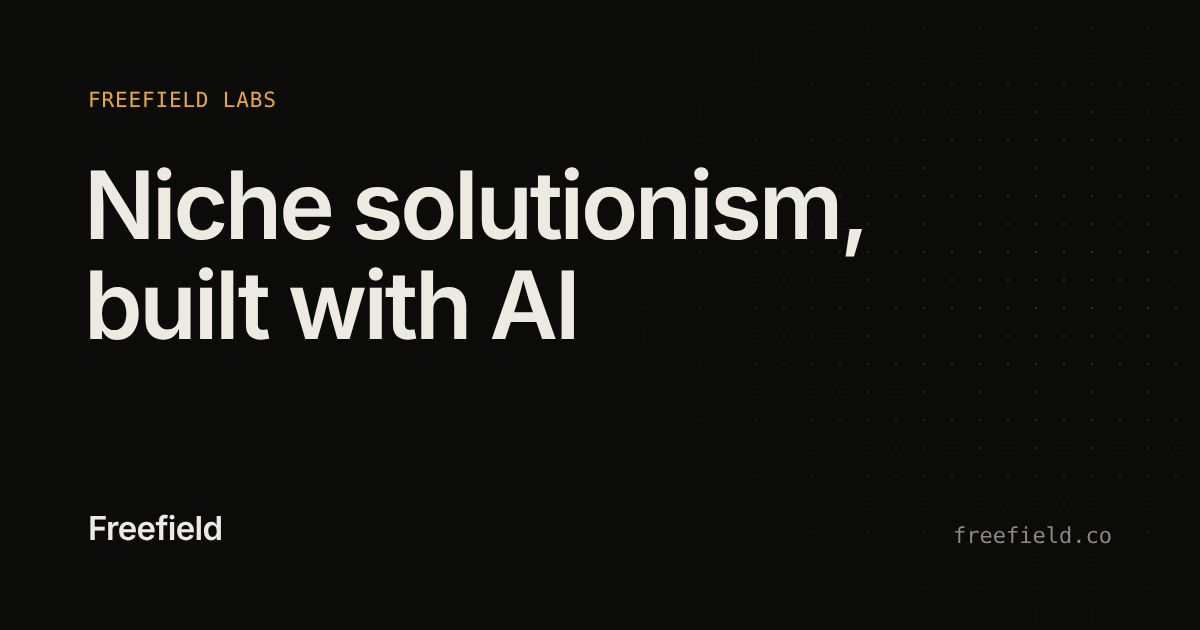
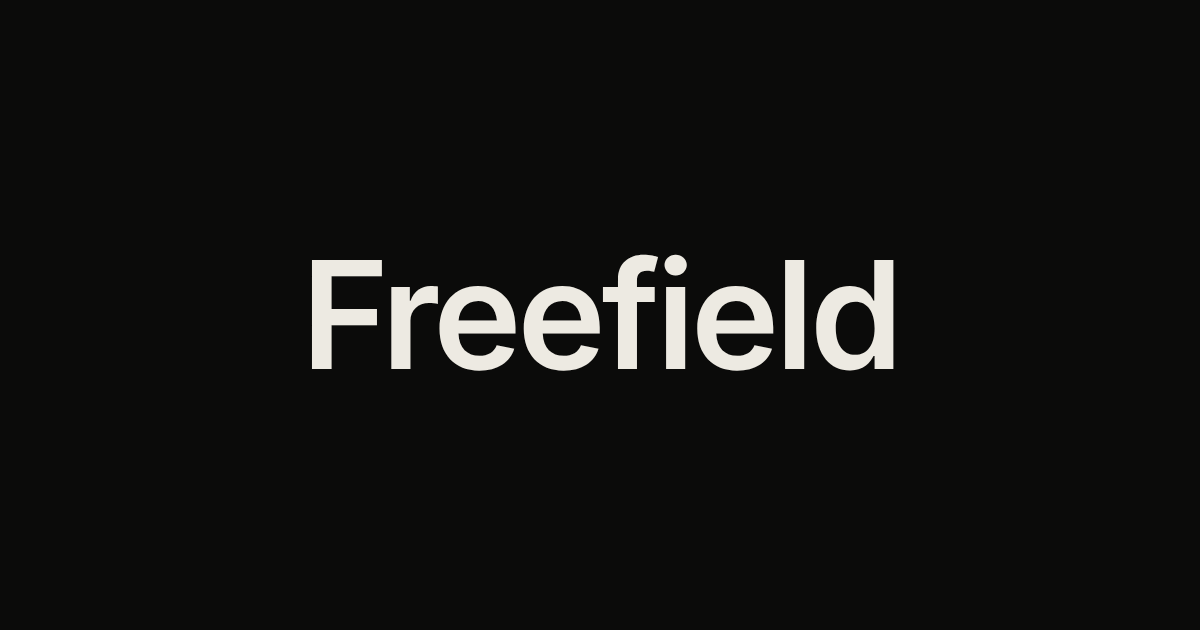
Share image: plain black with Freefield wordmark (#5)
* Fix HTML validation errors

- Uppercase the DOCTYPE on all pages (html-validate doctype-style).
- Move the "Fairplay resources" label from the <ul> to a wrapping
  <nav>, where aria-label is allowed. Layout is unchanged.

Claude-Session: https://claude.ai/code/session_01YTG6rrJb7hz6UzpLhCauVd

* Homepage: new headline, drop second intro line

Claude-Session: https://claude.ai/code/session_01YTG6rrJb7hz6UzpLhCauVd

* Match tab title, share title and share image to new headline

Claude-Session: https://claude.ai/code/session_01YTG6rrJb7hz6UzpLhCauVd

* Homepage copy edits and well-plate favicon

- Hero label: drop "/ Vancouver, BC".
- Fairplay description: drop "Roster's full? It's on."
- New favicon: a 3x3 sample-well grid with one amber well
  (favicon.svg, favicon-32.png, apple-touch-icon.png).

Claude-Session: https://claude.ai/code/session_01YTG6rrJb7hz6UzpLhCauVd

* Share image: drop location from label to match homepage

Claude-Session: https://claude.ai/code/session_01YTG6rrJb7hz6UzpLhCauVd

* Share image: headline plus a single Freefield Labs mark

Claude-Session: https://claude.ai/code/session_01YTG6rrJb7hz6UzpLhCauVd

* Share image: plain black with Freefield wordmark

Claude-Session: https://claude.ai/code/session_01YTG6rrJb7hz6UzpLhCauVd

---------

diff --git a/index.html b/index.html
@@ -16,7 +16,7 @@
   <meta property="og:image" content="https://freefield.co/assets/og.png">
   <meta property="og:image:width" content="1200">
   <meta property="og:image:height" content="630">
-  <meta property="og:image:alt" content="Freefield Labs — Niche solutionism, built with AI">
+  <meta property="og:image:alt" content="Freefield">
   <meta name="twitter:card" content="summary_large_image">
 
   <link rel="icon" href="/favicon.svg" type="image/svg+xml">
